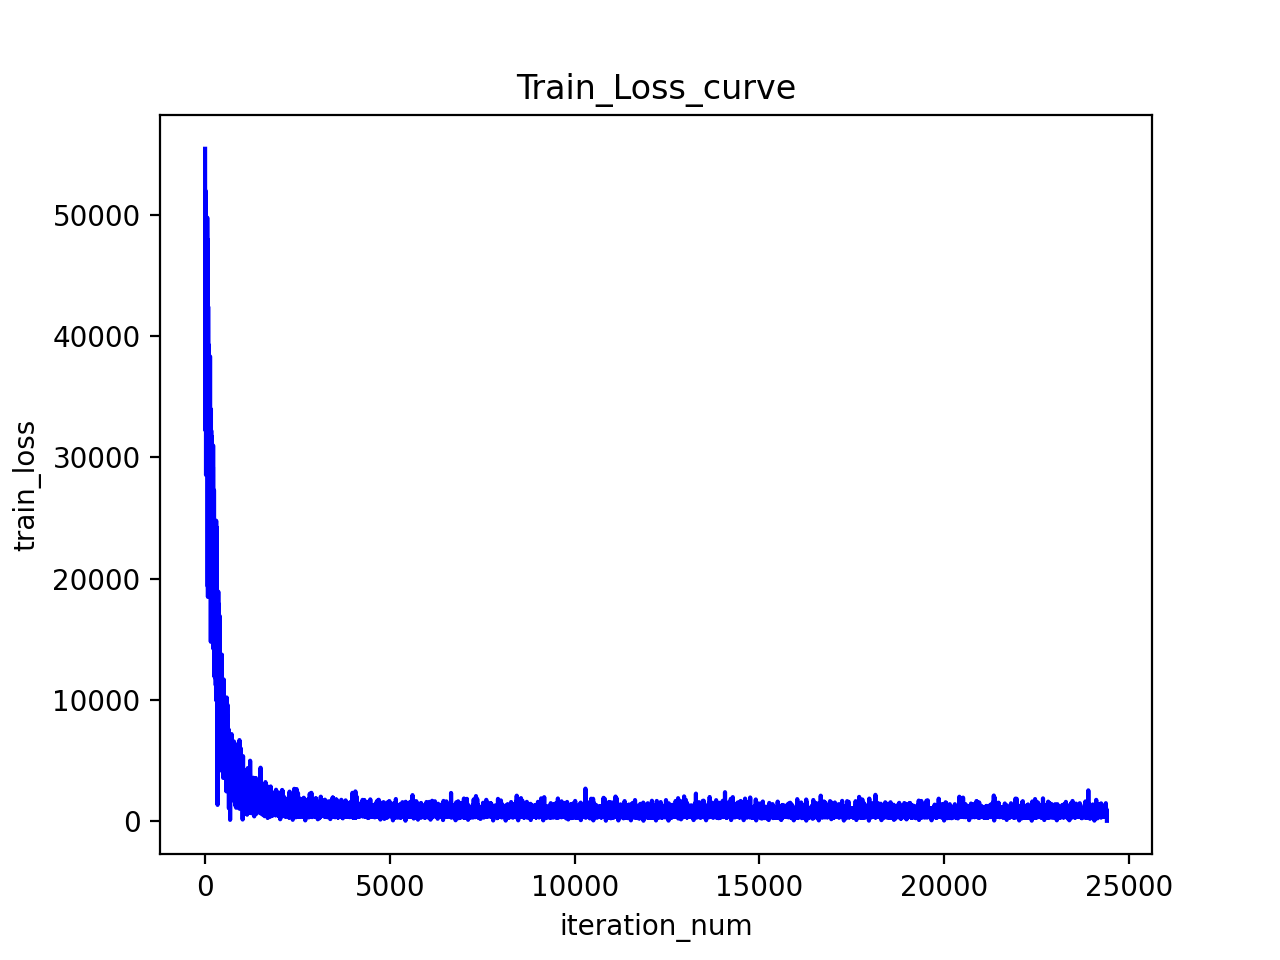
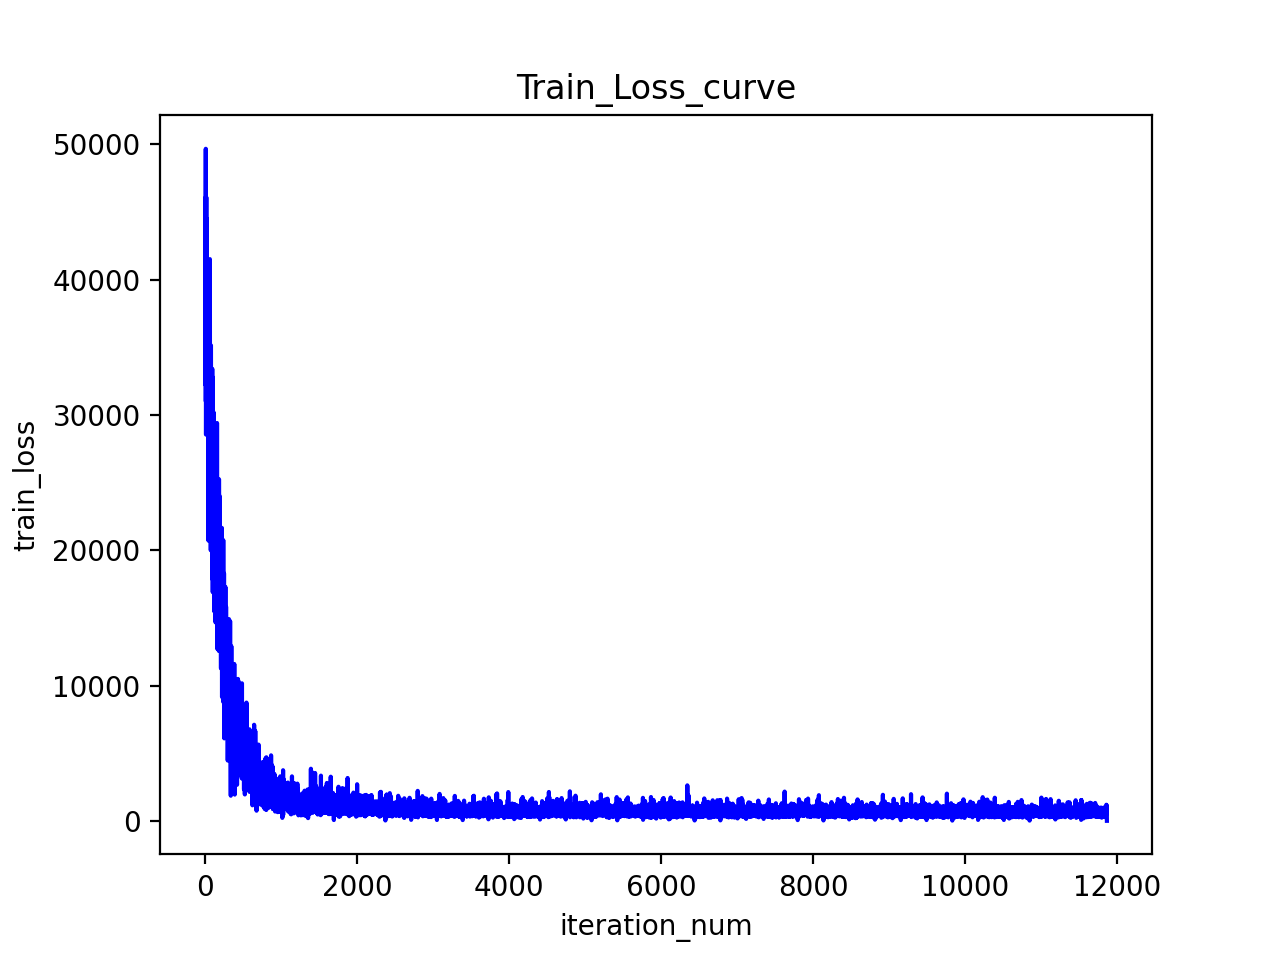
2nd version

diff --git a/train_script.py b/train_script.py
@@ -8,12 +8,13 @@ from dataloader import plot
 import matplotlib.pyplot as plt
 import numpy as np
 import time
+from evaluation import Evaluation
 def main():
     loss = []
     # 1. prepare dataset
     precon = 6
     filepath = "data/data.csv"
-    hidden = 6
+    hidden = 10
 
     train_loader = train_data_prepare(filepath=filepath) # train_loader 里面都是Tensor
     test_loader = test_data_prepare(filepath=filepath)
@@ -23,9 +24,8 @@ def main():
     t0 = time.time()
     model = LSTM_Regression(precon,hidden_size=hidden)
     
-    criterion = torch.nn.MSELoss(size_average=False)
-
-    optimizer = torch.optim.Adam(model.parameters(), lr = 1e-2)
+    criterion = Evaluation(model,1e-2).criterion
+    optimizer = Evaluation(model,1e-2).optimizer
 
     for epoch in range(1000):
         epoch_loss = []
@@ -43,11 +43,11 @@ def main():
             optimizer.step() # 更新参数
             if (i+1) % 1 ==0:
                 print('Epoch: {},Batch: {} Loss:{:.5f}'.format((epoch+1),(i+1),train_loss.item()))
-            if train_loss < 7:
+            if train_loss < 10:
                 break
         # print(epoch_loss)
         loss += epoch_loss #loss是一个list
-        if np.min(epoch_loss) < 7:
+        if np.min(epoch_loss) <10:
             break
     
 

diff --git a/evaluation.py b/evaluation.py
@@ -1,0 +1,9 @@
+import torch
+import torch.nn as nn
+
+class Evaluation():
+    def __init__(self,model,learningRate,) -> None:
+            
+        self.criterion = torch.nn.MSELoss(size_average=False)
+
+        self.optimizer = torch.optim.Adam(model.parameters(), lr = learningRate)
